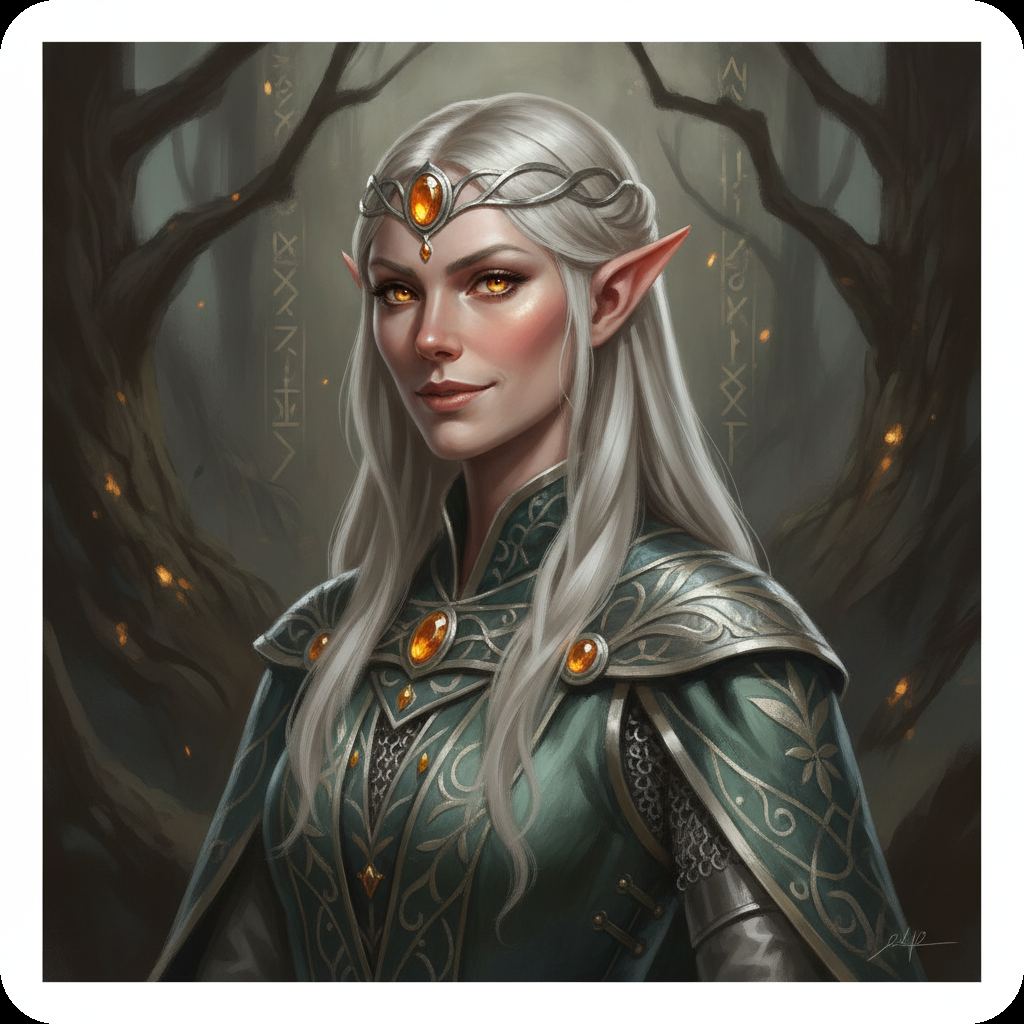
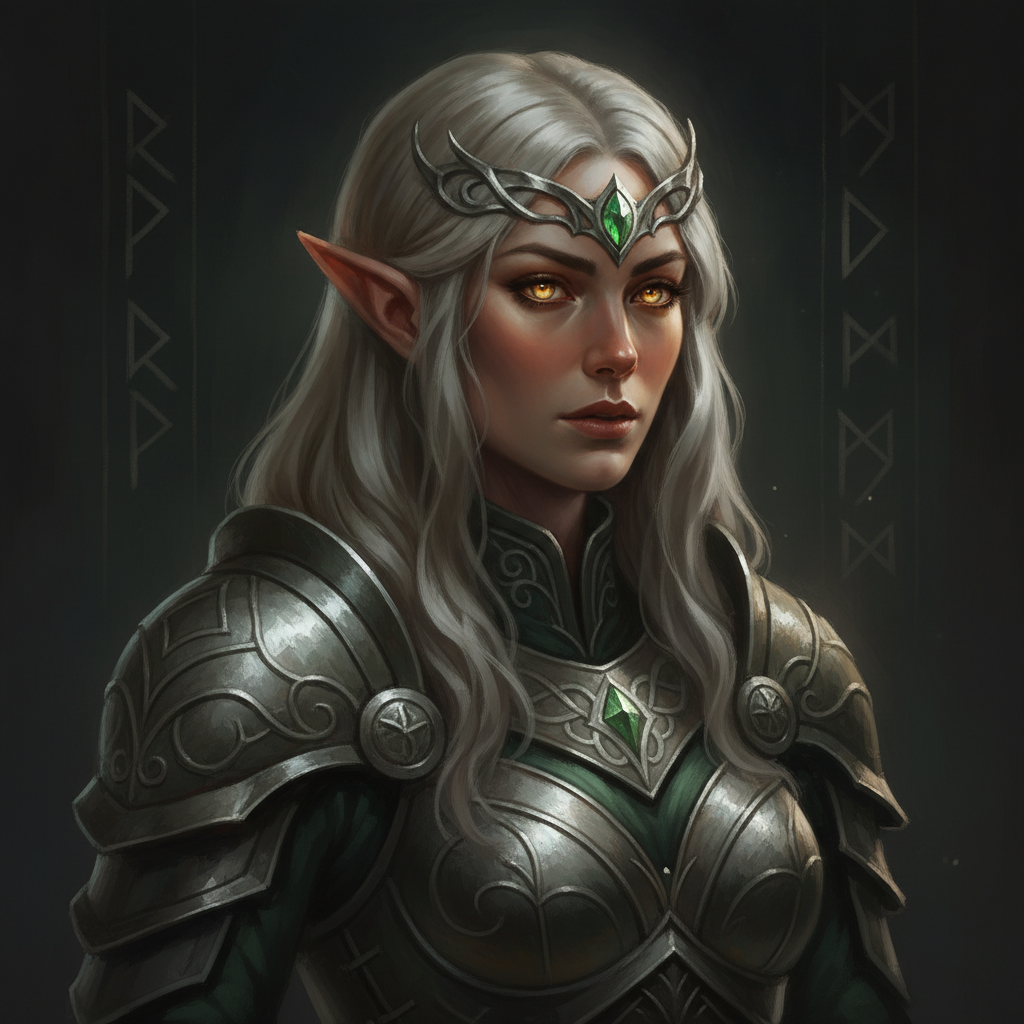
fix: regenerate 15 portraits with a white border-frame defect, expand pixel check
Johan: "mörkeralv har en vit kant igen." The earlier session's white-background
fix (29 portraits) only sampled 4 extreme corner pixels, which missed a
different defect: a thin white "polaroid" border/frame around the whole
image with rounded corners — the corner sample lands just outside the
rounded frame (black/transparent there), never inside it.

Widened the check to sample 7 points along all four edges, not just corners.
That surfaced 15 more affected portraits that were never in scope for the
earlier fix at all — the elf lineages and profession specializations
generated in an earlier session (17), before either the white-background or
this border-frame gotcha were documented: 4 raser (hogalv-kvinna, injir-man,
morkeralv-man, skogsalv-kvinna) + 11 yrken specializations (bedragare-kvinna,
giftmastare-man, gladiator-kvinna/man, gycklare-man, kunskapare-kvinna,
kurtisan-kvinna, spelaren-man, spion-man, spratthok-man,
vapenmastare-kvinna).

Regenerated all 15 against the same filenames (img fields are path
references, no JSON/pack changes needed). Added a "no border/frame, full
bleed" rule to ART_STYLE.md, but it wasn't sufficient alone for 8/15 on the
first attempt — needed a more explicit second rewording, and 3 of those
needed a third, shorter rewording before passing. Matches the already-
documented pattern that some subjects are unusually stubborn (utbygdsjagare-man
took 4 tries in the earlier round).
[…]

diff --git a/docs/DESIGN_DECISIONS.md b/docs/DESIGN_DECISIONS.md
@@ -105,6 +105,7 @@ The architecture audit proposed a `ruleMeta` metadata sidecar on config tables t
 | Hjältedådstabell (HH s.6-7) nu wired in i nivå-steget | **Done (2026-08-02), utökad samma dag efter Johans andra testrunda** | `DODE.hjaltedadTable`/`hjaltedadRollCount` fanns redan i `config.mjs` men anropades aldrig — de fyra nivåkorten visade därför identisk "125 BP" (Johans fynd #1), trots att bara `vanlig` faktiskt ska sakna bonusrullning. Nya schemafält `bp.bonusHjaltedad`/`hp.bonusHjaltedad` i `actor-character.mjs`, adderade i `bp.start`/`hp.max`. **Tre uppföljningsfynd samma dag, efter att Johan testat den första versionen live:** (1) **tvåstegsraket, inte ett klick** — `#onRollHjaltedadCount` slår `1T6` OCH postar det som ett eget synligt chattkort (`ChatMessage.create({rolls:[countRoll]})`, samma husmönster som redan gällde för grundegenskapsslagen, se den överstrukna raden ovan — den ursprungliga versionen körde `Roll.evaluate()` utan att posta chattkort alls, så varken resultatet eller Dice So Nice syntes); när `rollCount` är satt visas en andra knapp, `#onRollHjaltedad`, som slår HELA poolen `1T20`×N i EN pool-formel (`{1d20,1d20,...}`, samma verifierade "tärningshink"-teknik som grundegenskapernas tre-kandidatläge använde) och postar ETT kort med alla tärningar synliga. (2) **EP-budget per nivå** (Johans fynd #2) — `context.epByAge = CONFIG.DODE.epBudgetTable[niva]` visas nu i nivådetaljboxen för ALLA fyra nivåer (inte bara hjälte-nivåerna), med alla fyra åldersraderna eftersom ålder väljs i ett senare steg. (3) **Full boktext + persistens till rollformuläret** (Johans fynd #3) — varje `hjaltedadTable`-rad fick ett nytt `description`-fält, transkriberat direkt ur HH-PDF:en (s.7, inte den kurerade sammanfattningen), och varje slagen rad sparas nu som en riktig `specialAbilities`-post (`name`/`source: "Hjältedåd (HH s.6-7)"`/`description` = boktext + notes + BP/HP-grant) på den skapade aktören — syns alltså på rollformulärets "Särskilda förmågor" i spel, inte bara i guiden. Ny `state.hjaltedadAbilities` HÅLLS ISÄR från formagor-stegets `state.specialAbilities` (som `#specialAbilitySlots()` pad:ar/trunkerar mot `abilityRollsByNiva[niva]`) för att INTE riskera att en lyckad hjältedåd-rullning (upp till 6 rader) trunkeras bort av den separata, oberoende slot-räkningen för fritt tillagda förmågor — partitionerat på `source`-fältet både vid inläsning (`#loadStateFromActor`) och sparning. Liveverifierat: 1T6+pool-1T20 båda posterar riktiga tärningskort (`rollFormula: "{1d20,1d20,1d20}"`, 3 tärningar), 3 hjältedåd-rader dök upp med full text på en skapad aktörs karaktärsark, och en redigeringsrunda (öppna→spara igen) bevarade exakt 3 rader utan dubblering eller förlust. 0 konsolfel. |
 | Progressiv avslöjning: alvsläkten/yrkesspecialiseringar visas bara efter basvalet | **Done (2026-08-02), buggfixad samma dag** | Johans fynd #2 och #7: alla 6 alvsläkten och alla 25 yrkesspecialiseringar visades permanent i guidens ras-/yrkessteg, oavsett vald bas-ras/yrke. Löst datadrivet, inte hårdkodat: `flags.drakar-och-demoner-expert.revealsRaceGroup: "alvslakte"` på **Alv**-raspostens `_source`-JSON, och `revealsProfessionGroup: "krigare"/"tjuv"/"lonnmordare"/"bard"` på de fyra basyrkena — samma mönster som specialiseringarnas befintliga `raceGroup`/`baseProfession`-flaggor. `_prepareContext` filtrerar `context.raceGroups`/`professionGroups` på om den **just nu valda** ras-/yrkesposten bär rätt flagga. **Byggt för framtida utökning** (Johans direktiv): en kommande Svartfolk-bas-ras med `revealsRaceGroup:"svartfolk"` och lineage-poster taggade `raceGroup:"svartfolk"` slår in i exakt samma gate utan någon guidekodändring. **⚠ Bugg hittad av Johan samma dag:** gruppen försvann så fort spelaren klickade en SPECIFIK gruppmedlem (t.ex. Mörkeralv) i stället för bara föräldern (Alv) — `selectedRace` blev då lineage-itemet, som inte självt bär `revealsRaceGroup` (bara Alv gör det), så filtret stängde gruppen mitt under valet. Fixat: faller nu tillbaka på det valda itemets EGEN `raceGroup`/`baseProfession` om det inte är en avslöjare självt, så en gruppmedlem håller sin egen grupp öppen. Liveverifierat båda vägar: rasstegets rubriker `["Grundraser"]` → `["Grundraser","Alvsläkten"]` efter klick på Alv (oförändrat), OCH `["Grundraser","Alvsläkten"]` förblir båda synliga efter att sedan klicka Mörkeralv specifikt (den nya regressionen, nu stängd) — yrkesstegets ekvivalent (Krigare→Riddare) delar samma kodväg och rättades samtidigt. |
 | Svärdshand-BP-inmatning band aldrig till state | **Done (2026-08-02)** | Johans fynd #4: ett inskrivet BP-värde ("15") föll bort vid slag, resultatet visade "+0 BP". Rotorsak: `[name="state.swordHand.bpSpent"]` hade — till skillnad från varje annat BP-fält i guiden (t.ex. `socialBpInput`) — ingen manuell `_onRender`-lyssnare, och guidens formulärhanterare är en no-op (`form:{handler:()=>{}}`), så `name`-attributet band aldrig av sig självt. Ny lyssnare tillagd, mönstrad efter `socialBpInput` exakt. **Bonusfynd i samma kod:** `bp.spentSvardshand` fanns inte alls i `system.bp`-schemat, så även om guidens LIVA total redan räknade med det (via `#bpLedger`), sparades det aldrig till den skapade aktören. Nytt schemafält tillagt och skrivet vid `#onCreateCharacter`/`#applyToActor`. Liveverifierat: skapad testaktör visar `bp.spentSvardshand: 15`, matchande det som visades live i guiden. |
+| 15 ytterligare porträtt regenererade — vit RAM-defekt, inte vit bakgrund (4 alvsläkten + 11 yrkesspecialiseringar) | **Done (2026-08-02)** | Johan: *"mörkeralv har en vit kant igen"*. Session 2026-08-02:s första pixelsampling (endast fyra hörnpunkter) missade en ANNAN defekt än den tidigare vitbakgrunds-buggen: en tunn vit/ljus "polaroid"-ram runt hela bilden med rundade hörn — hörnsamplingen träffar rutan UTANFÖR den rundade ramen (svart/transparent där), inte själva ramen. Ny bredare kontroll (7 punkter längs VARJE kant, inte bara 4 hörn) hittade **15 träffar bland raster/yrken-porträtt som ALDRIG ingick i den tidigare 29-bildsomgången** (den täckte bara de 7 grundraserna + 11 basyrkena, inte alvsläkten/specialiseringarna från session 17). 4 raser (`hogalv-kvinna`, `injir-man`, `morkeralv-man`, `skogsalv-kvinna`) + 11 yrkesspecialiseringar (`bedragare-kvinna`, `giftmastare-man`, `gladiator-kvinna`, `gladiator-man`, `gycklare-man`, `kunskapare-kvinna`, `kurtisan-kvinna`, `spelaren-man`, `spion-man`, `spratthok-man`, `vapenmastare-kvinna`). Regenererade mot samma filnamn (ingen JSON-/packändring — `img` är en sökvägsreferens, inte inbäddad data). ⚠ Samma "no border"-instruktion i prompten (ny rad i `ART_STYLE.md`) räckte INTE första gången för 8/15 — krävde en andra, mer explicit ombordformulering ("the artwork fills the entire canvas edge to edge with absolutely no white margin..."), och `morkeralv-man`/`spelaren-man`/`vapenmastare-kvinna` krävde en TREDJE ombordformulering (kortare prompt, "no card mount, no vignette edge") innan de klarade kontrollen — matchar det redan dokumenterade mönstret att vissa motiv är ihärdigt svåra (`utbygdsjagare-man` tog 4 försök i förra omgången). Slutverifiering: 0/116 raser+yrken-porträtt flaggade med den nya kantmedvetna kontrollen. Liveverifierat: `morkeralv-man.png` laddar (HTTP 200) och visas korrekt i guidens raskort. |
 | 29 vitbakgrundsporträtt regenererade (16 yrken + 13 raser) | **Done (2026-08-02)** | Johans fynd #6 ("vit kant förvirrar vald-läget"): pixelsampling av alla porträtts fyra hörn hittade 29 bilder från den ursprungliga sessions-4-omgången (före `ART_STYLE.md`s "mörk suddig bakgrund"-regel fanns) med hörnljusstyrka 254-255/255. Regenererade in-place via `mcp__gemini-imagen__generate_image` mot samma mall, samma filnamn (ingen JSON-/packändring behövdes). ⚠ **Gemini-modellen följer "mörk suddig bakgrund"-instruktionen opålitligt** — ~50 % av försöken kom ändå tillbaka nästan vitbakgrunda trots exakt samma prompttext, bekräftar en redan dokumenterad gotcha i `ART_STYLE.md`. Varje bild pixelsamplades innan den accepterades; underkända bilder gjordes om med varierad frastext (t.ex. "no bright light source", specifika miljöer som "dark stone cellar wall") tills de klarade tröskeln — ett fall (`utbygdsjagare-man`) krävde 4 försök. Slutverifiering: 0/83 yrkes- och 0/33 rasporträtt flaggade (<180/255-tröskel), alla 1024×1024. |
 | Magiträning i ett EGET fönster | **Done (2026-07-29)** | Johans beslut. **RP s.63 och REG s.45 säger ordagrant samma sak:** EP ges "varje gång som en rollperson använder en färdighet framgångsrikt **första gången efter en sovperiod om minst sex timmar** (⚠ **två timmar för alver**)", perfekt slag ger 1T3+1, och sedan kan färdigheten inte ge mer EP förrän rollpersonen sovit. Formuleringen "i ett stressigt läge (SL bedömer)" — som systemet byggde på — står inte i NÅGON bok; den kommer från den kurerade `REGLER_FARDIGHETER.md`. **Följden är att utdelningen blir AUTOMATISK:** EP-strecket (RP s.63:s egen term — samma ruta som på det fysiska rollformuläret) är något systemet kan avgöra självt, till skillnad från en stressbedömning. SL-knappen på slagkortet är därför **borttagen**, liksom hela `renderChatMessage`-hooken — kortet visar bara "+N EP" när utdelning skett. Fältet flyttades från `besvarjelse` till att gälla alla poster, och heter **`system.ep.ticked`** (döpt om 2026-07-29 från `awardedSinceRest` — "sömnklocka" var missvisande, RP:s sheet har bara en liten kryssruta per färdighet, ingen klocka). ⚠ **Kategori B tjänar aldrig EP genom äventyr** — "Detta gäller inte färdigheter kategori B, som endast kan förbättras genom träning" (RP s.63). Ny sovknapp (🌙) på arket kryssar ur strecken; den visar antalet färdigheter som redan har sitt EP-streck ikryssat. ⚠ Systemet spårar ingen speltid, så sovperiodens LÄNGD är SL:s bedömning — knappen kvitterar bara att den ägt rum. Live-verifierat: första lyckade slaget ger 1 EP automatiskt, andra ger 0, sovknappen öppnar igen, perfekt ger 1T3+1 (verifierat 2 EP på ett naturligt perfekt slag) med tärningen bifogad för Dice So Nice, och en kategori B-färdighet får 0. |
 | Magiträning i ett EGET fönster | **Done (2026-07-29)** | Johans beslut. ⚠ Motivet är inte kosmetiskt: **SB s.7** ger magi andra EP-KÄLLOR än vanliga färdigheter, inte bara andra kostnader. "Att skaffa sig FV i magiskolor fungerar som för vanliga färdigheter, men man kan **endast** få erfarenhetspoäng genom träning med lärare; ej genom ensamträning eller erfarenhet." Besvärjelser däremot kan tränas ensam (kräver **magisk kodex**), med lärare, eller genom äventyr. Ett gemensamt fönster hade fyllts av villkor som gäller hälften av raderna. Gemensam bas i `apps/training-base.mjs` (grind, lägesväxel, EP-aritmetik, Träna/Höj); `apps/training.mjs` visar vanliga färdigheter, `apps/magic-training.mjs` skolor + besvärjelser. |

diff --git a/docs/dev/ART_STYLE.md b/docs/dev/ART_STYLE.md
@@ -32,6 +32,7 @@ portrait, highly detailed
 - **`muted earthy color palette with warm amber highlights`** — varm dämpad jordton är husstilen. Kalla/blå paletter bara när motivet kräver det (mörkeralv, frostmiljö), och även då dämpat.
 - **`waist-up portrait` + `centered square composition`** — midjebild, centrerad, 1:1.
 - **`portrait icon`** — orden spelar roll; de ger den inramade ikonkänslan snarare än en scen.
+- **Ingen dekorativ bildram/kant** — Johan hittade 2026-08-02 att flera porträtt (bl.a. `morkeralv-man.png`) fått en vit, rundad "polaroid"-ram runt hela bilden trots att `dark blurred background` följdes ordagrant — bakgrunden i sig var mörk, men modellen la ändå på en ljus inramning runt kanten. Pixelsampling i fyra hörn missar detta (rundade hörn faller utanför själva ramen och samplar svart/transparent), så sampla ALLTID flera punkter längs alla fyra kanterna (inte bara hörnen) när porträtt verifieras. Lägg till `no border, no frame, edge-to-edge image, full bleed` i slutet av prompten för att motverka det.
 
 ## Andra motivtyper
 
